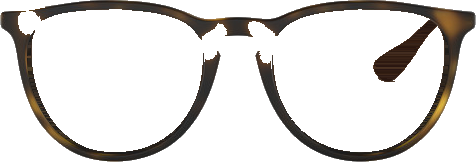
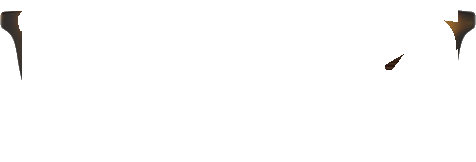
Erase arm stubs inside lens: enclosed BFS + dilation expansion

Changed region(s): [[0.0588, 0.0, 0.9706, 1.0], [0.0294, 0.1852, 0.4706, 1.0]]

diff --git a/process_lenses.py b/process_lenses.py
@@ -14,6 +14,35 @@ PRODUCTS_FILE = BASE / "products.json"
 DARK_THR = 200  # sum(R+G+B) <= this = dark border pixel, flood-fill stops here
 
 
+def expand_lens_transparency(rgba: np.ndarray, left_hinge: int, right_hinge: int,
+                             iterations: int = 12) -> int:
+    """
+    Dilate the transparent region by `iterations` pixels, but only within
+    the hinge x-range.  This absorbs arm-stub pixels that are connected to the
+    frame ring (and therefore not caught by erase_enclosed_opaque).
+    Returns count of newly-transparent pixels.
+    """
+    h, w = rgba.shape[:2]
+    total = 0
+    for _ in range(iterations):
+        transparent = rgba[:, :, 3] < 128
+        # 4-connected neighbours of transparent pixels
+        nbr = np.zeros((h, w), dtype=bool)
+        nbr[:-1, :] |= transparent[1:, :]
+        nbr[1:,  :] |= transparent[:-1, :]
+        nbr[:, :-1] |= transparent[:, 1:]
+        nbr[:, 1:]  |= transparent[:, :-1]
+        # New transparent = opaque neighbour of transparent, within hinge range
+        new_t = nbr & (rgba[:, :, 3] > 128)
+        new_t[:, :left_hinge]    = False
+        new_t[:, right_hinge+1:] = False
+        if not new_t.any():
+            break
+        rgba[new_t, 3] = 0
+        total += int(new_t.sum())
+    return total
+
+
 def erase_enclosed_opaque(rgba: np.ndarray) -> int:
     """
     BFS from exterior opaque pixels (boundary-connected).
@@ -165,12 +194,26 @@ def main():
             p["lens_bot"] = None
             changed = True
 
-        # Always erase enclosed opaque islands (arm stubs inside the now-transparent lens)
+        # Step A: erase enclosed opaque islands (arm stubs not touching the frame ring)
         img2 = Image.open(png_path).convert("RGBA")
         arr2 = np.array(img2, dtype=np.uint8)
-        n = erase_enclosed_opaque(arr2)
-        print(f"  Enclosed arm-stub pixels erased: {n}")
-        if n > 0:
+        n_enclosed = erase_enclosed_opaque(arr2)
+        print(f"  Enclosed arm-stub pixels erased: {n_enclosed}")
+
+        # Step B: dilate transparent lens region to absorb frame-connected arm stubs
+        col_h2 = (arr2[:, :, 3] > 128).sum(axis=0)
+        max_h2 = int(col_h2.max())
+        if max_h2 > 0:
+            thr2 = max_h2 * 0.5
+            lh = next((x for x in range(len(col_h2) // 2) if col_h2[x] > thr2), 0)
+            rh = next((x for x in range(len(col_h2) - 1, len(col_h2) // 2, -1)
+                       if col_h2[x] > thr2), len(col_h2) - 1)
+            n_expand = expand_lens_transparency(arr2, lh, rh, iterations=12)
+            print(f"  Expanded transparency by: {n_expand} pixels  (hinges {lh}..{rh})")
+        else:
+            n_expand = 0
+
+        if n_enclosed > 0 or n_expand > 0:
             Image.fromarray(arr2, "RGBA").save(png_path, "PNG")
             print(f"  Re-saved: {png_path.name}")
 
